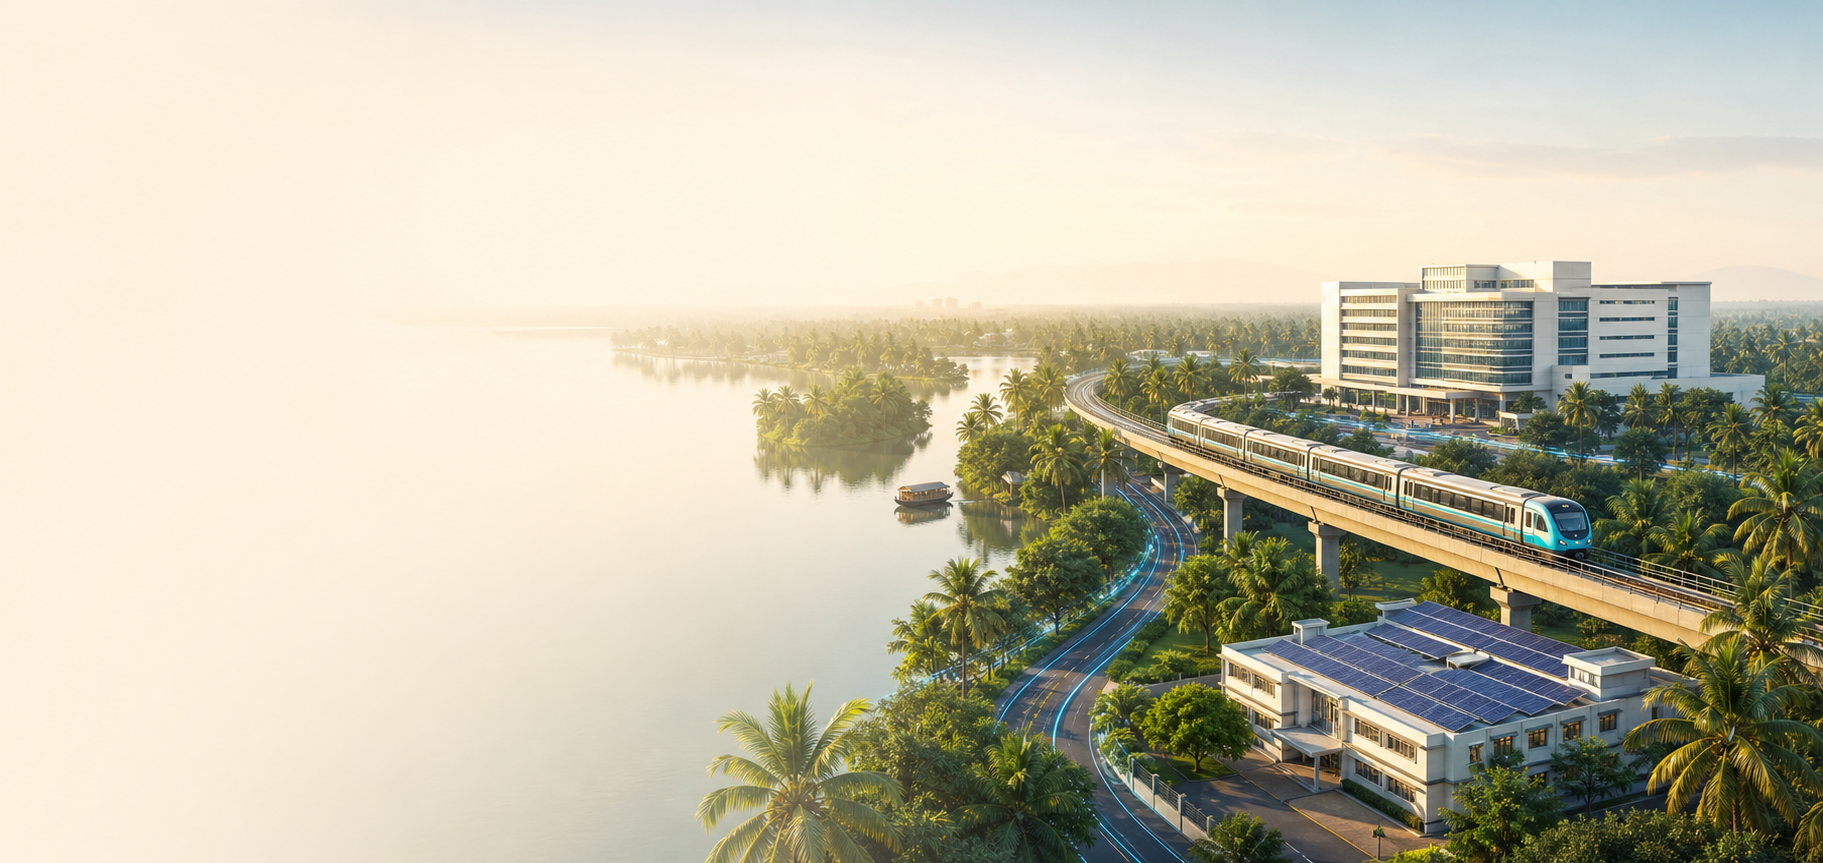
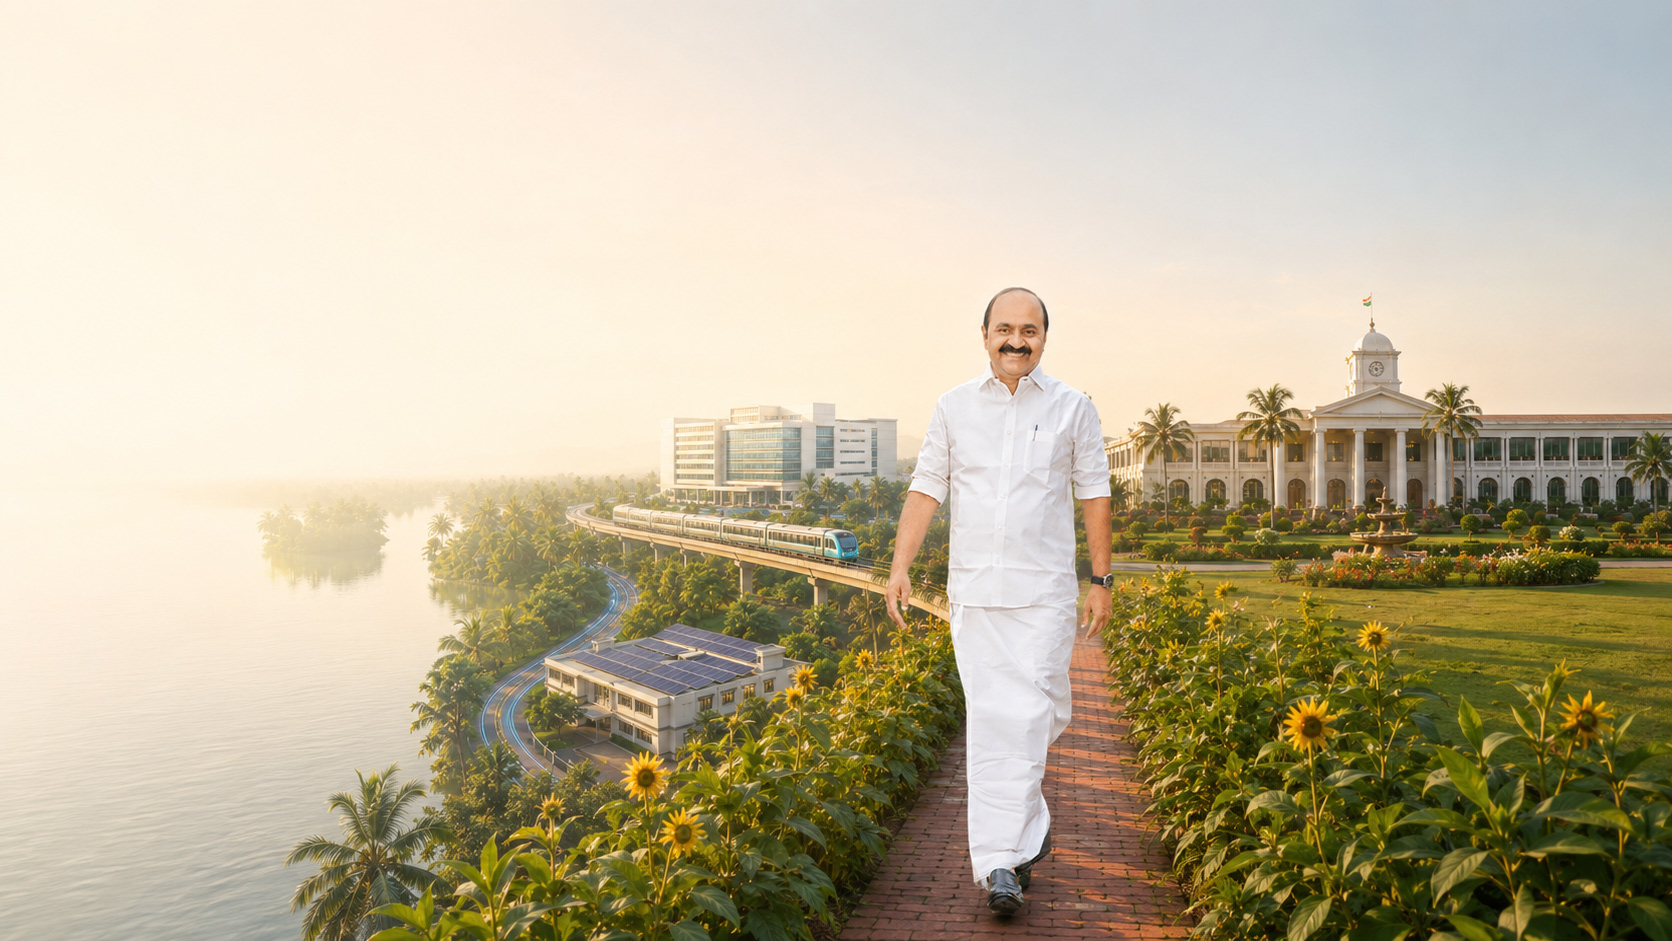
Update public status logic, Malayalam copy, and hero presentation

diff --git a/app/api/public/sectors/route.ts b/app/api/public/sectors/route.ts
@@ -7,8 +7,10 @@ import { db } from "@/lib/db/client";
 // Joins each sector to:
 //   - master_projects (sector_id) â†’ projects count
 //   - indicators via projects â†’ indicators count
-// Status is derived: all indicators verified at 100% â†’ completed;
-// any indicator submitted â†’ in-progress; otherwise not-started.
+// Status is derived in this order:
+//   - all projects completed â†’ completed
+//   - any project in progress (is_completed = 1) â†’ in-progress
+//   - otherwise â†’ not-started
 //
 // `sector_name_mal` is the Malayalam label if the column exists, falling
 // back to the English `sector_name`. `sector_img_path` is the file name
@@ -29,6 +31,18 @@ export async function GET() {
           WHERE mp.sector_id = ms.sector_id
             AND COALESCE(mp.is_archived, false) = false
         ), 0) AS projects,
+        COALESCE((
+          SELECT COUNT(*)::int FROM hdp.master_projects mp
+          WHERE mp.sector_id = ms.sector_id
+            AND COALESCE(mp.is_archived, false) = false
+            AND COALESCE(mp.is_completed, 0) = 2
+        ), 0) AS projects_completed,
+        COALESCE((
+          SELECT COUNT(*)::int FROM hdp.master_projects mp
+          WHERE mp.sector_id = ms.sector_id
+            AND COALESCE(mp.is_archived, false) = false
+            AND COALESCE(mp.is_completed, 0) = 1
+        ), 0) AS projects_in_progress,
         COALESCE((
           SELECT COUNT(*)::int FROM hdp.indicators i
           INNER JOIN hdp.master_projects mp ON i.project_id = mp.project_id
@@ -55,13 +69,16 @@ export async function GET() {
     `);
 
     const sectors = (result.rows as Array<any>).map((r) => {
+      const projects = Number(r.projects) || 0;
+      const projectsCompleted = Number(r.projects_completed) || 0;
+      const projectsInProgress = Number(r.projects_in_progress) || 0;
       const indicators = Number(r.indicators) || 0;
       const verifiedComplete = Number(r.verified_complete) || 0;
       const submitted = Number(r.submitted) || 0;
       let status: "completed" | "in-progress" | "not-started" = "not-started";
-      if (indicators > 0 && verifiedComplete >= indicators) {
+      if (projects > 0 && projectsCompleted >= projects) {
         status = "completed";
-      } else if (submitted > 0 || verifiedComplete > 0) {
+      } else if (projectsInProgress > 0) {
         status = "in-progress";
       }
       return {
@@ -71,7 +88,7 @@ export async function GET() {
         imagePath: r.sector_img_path
           ? `/images/sector_images/${r.sector_img_path}`
           : null,
-        projects: Number(r.projects) || 0,
+        projects,
         indicators,
         status,
       };

diff --git a/app/api/public/departments/route.ts b/app/api/public/departments/route.ts
@@ -28,6 +28,24 @@ export async function GET() {
         ), 0) AS projects,
 
         COALESCE((
+          SELECT COUNT(DISTINCT mp.project_id)::int
+          FROM hdp.master_projects mp
+          INNER JOIN hdp.project_secretary ps ON mp.project_id = ps.project_id
+          WHERE ps.sec_id = ms.sec_id
+            AND COALESCE(mp.is_archived, false) = false
+            AND COALESCE(mp.is_completed, 0) = 2
+        ), 0) AS projects_completed,
+
+        COALESCE((
+          SELECT COUNT(DISTINCT mp.project_id)::int
+          FROM hdp.master_projects mp
+          INNER JOIN hdp.project_secretary ps ON mp.project_id = ps.project_id
+          WHERE ps.sec_id = ms.sec_id
+            AND COALESCE(mp.is_archived, false) = false
+            AND COALESCE(mp.is_completed, 0) = 1
+        ), 0) AS projects_in_progress,
+
+        COALESCE((
           SELECT COUNT(*)::int
           FROM hdp.indicators i
           INNER JOIN hdp.master_projects mp ON i.project_id = mp.project_id
@@ -105,18 +123,21 @@ export async function GET() {
     const departments = (r.rows as Array<any>).map((row) => {
       const physicalPct = Number(row.physical_pct) || 0;
       const financialPct = Number(row.financial_pct) || 0;
+      const projects = Number(row.projects) || 0;
+      const projectsCompleted = Number(row.projects_completed) || 0;
+      const projectsInProgress = Number(row.projects_in_progress) || 0;
       const indicators = Number(row.indicators) || 0;
-      // Simple status heuristic:
-      //   no indicators yet â†’ not-started
-      //   physical 100% AND financial 100% â†’ completed
-      //   otherwise â†’ in-progress
+      // Status derivation based on project state:
+      //   all projects completed â†’ completed
+      //   any project in progress â†’ in-progress
+      //   otherwise â†’ not-started
       let status: "completed" | "in-progress" | "not-started" = "not-started";
-      if (indicators === 0) {
-        status = "not-started";
-      } else if (physicalPct >= 99.9 && financialPct >= 99.9) {
+      if (projects > 0 && projectsCompleted >= projects) {
         status = "completed";
-      } else {
+      } else if (projectsInProgress > 0) {
         status = "in-progress";
+      } else {
+        status = "not-started";
       }
       return {
         secId: Number(row.sec_id),
@@ -128,7 +149,7 @@ export async function GET() {
             row.secretary_name_mal) ||
           row.secretary_name ||
           "",
-        projects: Number(row.projects) || 0,
+        projects,
         indicators,
         costInLakhs: Number(row.total_cost) || 0,
         physicalPct: Math.round(physicalPct),

diff --git a/components/public/DepartmentPage.tsx b/components/public/DepartmentPage.tsx
@@ -53,7 +53,7 @@ const STATUS_META: Record<
     border: 'border-l-hdp-danger',
     bg: 'bg-[#FFEBEE]/30',
     indexBg: 'bg-[#FFEBEE] text-[#C62828]',
-    chipMal: 'ആരംഭിക്കാൻ',
+    chipMal: 'ആരംഭിച്ചിട്ടില്ല',
   },
 };
 
@@ -92,7 +92,7 @@ const FILTER_LABELS_MAL: Record<Filter, string> = {
   all: 'എല്ലാം',
   completed: 'പൂർത്തിയായി',
   'in-progress': 'പുരോഗതിയിൽ',
-  'not-started': 'ആരംഭിക്കാൻ',
+  'not-started': 'ആരംഭിച്ചിട്ടില്ല',
 };
 
 export function DepartmentPage({
@@ -134,8 +134,7 @@ export function DepartmentPage({
               {nameMal}
             </h1>
             <p className="font-malayalam mt-3 max-w-xl text-sm leading-relaxed text-white/80">
-              പദ്ധതികളുടെ ഭൗതികവും സാമ്പത്തികവുമായ പുരോഗതി, ഘടകങ്ങൾ, മാധ്യമങ്ങൾ
-              എന്നിവ
+              പദ്ധതികളുടെ ഭൗതികവും സാമ്പത്തികവുമായ പുരോഗതി, ഘടകങ്ങൾ എന്നിവ
             </p>
           </div>
 
@@ -171,9 +170,6 @@ export function DepartmentPage({
       <section className="border-b bg-white">
         <div className="container mx-auto flex flex-col gap-4 px-4 py-6 md:flex-row md:items-center md:justify-between">
           <div>
-            <p className="font-malayalam text-xs font-semibold uppercase tracking-wide text-hdp-green">
-              പദ്ധതിപട്ടിക
-            </p>
             <h2 className="font-malayalam text-xl font-bold text-foreground">
               വകുപ്പിലെ പദ്ധതികൾ
             </h2>
@@ -354,11 +350,6 @@ function ProjectCard({
           <p className="font-malayalam text-[11px] font-semibold uppercase tracking-wide text-muted-foreground">
             പദ്ധതിപുരോഗതി
           </p>
-          {!project.verified && (
-            <span className="font-malayalam rounded-full bg-white/80 px-2 py-0.5 text-[10px] text-muted-foreground">
-              സർക്കാർ സ്ഥിരീകരിച്ചത് അല്ല
-            </span>
-          )}
           {project.verified && (
             <span className="font-malayalam rounded-full bg-hdp-success/15 px-2 py-0.5 text-[10px] text-hdp-success">
               സ്ഥിരീകരിച്ചത്

diff --git a/app/api/public/sector/[sectorId]/departments/route.ts b/app/api/public/sector/[sectorId]/departments/route.ts
@@ -43,6 +43,26 @@ export async function GET(
         ), 0) AS projects,
 
         COALESCE((
+          SELECT COUNT(DISTINCT mp.project_id)::int
+          FROM hdp.master_projects mp
+          INNER JOIN hdp.project_secretary ps ON mp.project_id = ps.project_id
+          WHERE ps.sec_id = ms.sec_id
+            AND mp.sector_id = ${id}
+            AND COALESCE(mp.is_archived, false) = false
+            AND COALESCE(mp.is_completed, 0) = 2
+        ), 0) AS projects_completed,
+
+        COALESCE((
+          SELECT COUNT(DISTINCT mp.project_id)::int
+          FROM hdp.master_projects mp
+          INNER JOIN hdp.project_secretary ps ON mp.project_id = ps.project_id
+          WHERE ps.sec_id = ms.sec_id
+            AND mp.sector_id = ${id}
+            AND COALESCE(mp.is_archived, false) = false
+            AND COALESCE(mp.is_completed, 0) = 1
+        ), 0) AS projects_in_progress,
+
+        COALESCE((
           SELECT COUNT(*)::int
           FROM hdp.indicators i
           INNER JOIN hdp.master_projects mp ON i.project_id = mp.project_id
@@ -127,14 +147,17 @@ export async function GET(
     const departments = (r.rows as Array<any>).map((row) => {
       const physicalPct = Number(row.physical_pct) || 0;
       const financialPct = Number(row.financial_pct) || 0;
+      const projects = Number(row.projects) || 0;
+      const projectsCompleted = Number(row.projects_completed) || 0;
+      const projectsInProgress = Number(row.projects_in_progress) || 0;
       const indicators = Number(row.indicators) || 0;
       let status: "completed" | "in-progress" | "not-started" = "not-started";
-      if (indicators === 0) {
-        status = "not-started";
-      } else if (physicalPct >= 99.9 && financialPct >= 99.9) {
+      if (projects > 0 && projectsCompleted >= projects) {
         status = "completed";
-      } else {
+      } else if (projectsInProgress > 0) {
         status = "in-progress";
+      } else {
+        status = "not-started";
       }
       return {
         secId: Number(row.sec_id),
@@ -143,7 +166,7 @@ export async function GET(
             row.secretary_name_mal) ||
           row.secretary_name ||
           "",
-        projects: Number(row.projects) || 0,
+        projects,
         indicators,
         costInLakhs: Number(row.total_cost) || 0,
         physicalPct: Math.round(physicalPct),

diff --git a/app/api/public/sector/[sectorId]/route.ts b/app/api/public/sector/[sectorId]/route.ts
@@ -29,6 +29,18 @@ export async function GET(
             AND COALESCE(mp.is_archived, false) = false
         ), 0) AS projects,
         COALESCE((
+          SELECT COUNT(*)::int FROM hdp.master_projects mp
+          WHERE mp.sector_id = ms.sector_id
+            AND COALESCE(mp.is_archived, false) = false
+            AND COALESCE(mp.is_completed, 0) = 2
+        ), 0) AS projects_completed,
+        COALESCE((
+          SELECT COUNT(*)::int FROM hdp.master_projects mp
+          WHERE mp.sector_id = ms.sector_id
+            AND COALESCE(mp.is_archived, false) = false
+            AND COALESCE(mp.is_completed, 0) = 1
+        ), 0) AS projects_in_progress,
+        COALESCE((
           SELECT COUNT(*)::int FROM hdp.indicators i
           INNER JOIN hdp.master_projects mp ON i.project_id = mp.project_id
           WHERE mp.sector_id = ms.sector_id
@@ -59,13 +71,16 @@ export async function GET(
       return NextResponse.json({ error: "Sector not found" }, { status: 404 });
     }
 
+    const projects = Number(row.projects) || 0;
+    const projectsCompleted = Number(row.projects_completed) || 0;
+    const projectsInProgress = Number(row.projects_in_progress) || 0;
     const indicators = Number(row.indicators) || 0;
     const verifiedComplete = Number(row.verified_complete) || 0;
     const submitted = Number(row.submitted) || 0;
     let status: "completed" | "in-progress" | "not-started" = "not-started";
-    if (indicators > 0 && verifiedComplete >= indicators) {
+    if (projects > 0 && projectsCompleted >= projects) {
       status = "completed";
-    } else if (submitted > 0 || verifiedComplete > 0) {
+    } else if (projectsInProgress > 0) {
       status = "in-progress";
     }
 
@@ -79,7 +94,7 @@ export async function GET(
         imagePath: row.sector_img_path
           ? `/images/sector_images/${row.sector_img_path}`
           : null,
-        projects: Number(row.projects) || 0,
+        projects,
         indicators,
         status,
       },

diff --git a/components/public/ProjectDetailPage.tsx b/components/public/ProjectDetailPage.tsx
@@ -112,7 +112,7 @@ const STATUS_META: Record<
   },
   'not-started': {
     chip: 'bg-[#FFEBEE] text-[#C62828]',
-    chipMal: 'ആരംഭിക്കാൻ',
+    chipMal: 'ആരംഭിച്ചിട്ടില്ല',
     ringBorder: 'border-hdp-danger',
   },
 };
@@ -321,7 +321,7 @@ function IndicatorCard({
         {ind.verified ? (
           <span className="inline-flex items-center gap-1 rounded-full bg-[#E8F5E9] px-2.5 py-0.5 text-[10px] font-semibold text-[#1B5E20]">
             <ShieldCheck className="h-3 w-3" />
-            <span className="font-malayalam">സ്ഥിരീകരിച്ചത്</span>
+            <span className="font-malayalam">വെരിഫൈഡ്</span>
           </span>
         ) : (
           <span className="inline-flex items-center gap-1 rounded-full bg-[#FFF8E1] px-2.5 py-0.5 text-[10px] font-semibold text-[#E65100]">

diff --git a/components/public/DepartmentProgressCard.tsx b/components/public/DepartmentProgressCard.tsx
@@ -49,7 +49,7 @@ const STATUS_META: Record<
   'not-started': {
     dot: 'bg-hdp-danger',
     chip: 'bg-[#FFEBEE] text-[#C62828]',
-    chipMal: 'ആരംഭിക്കാൻ',
+    chipMal: 'ആരംഭിച്ചിട്ടില്ല',
     ringColor: '#E53935',
   },
 };
@@ -269,13 +269,6 @@ export function DepartmentProgressCard({
         </div>
       </div>
 
-      {/* ============== INFO FOOTER ============== */}
-      <footer className="flex flex-wrap items-center gap-3 border-t bg-hdp-bg/40 px-5 py-2.5 text-[11px] text-muted-foreground">
-        <CheckCircle2 className="h-3.5 w-3.5 text-hdp-success" />
-        <span className="font-malayalam">
-          വരുമാന പദ്ധതികൾ, എണ്ണം, ചിത്രങ്ങൾ, വീഡിയോകൾ
-        </span>
-      </footer>
     </article>
   );
 }

diff --git a/components/public/HeroSection.tsx b/components/public/HeroSection.tsx
@@ -41,7 +41,7 @@ export function HeroSection(_unusedProps: HeroSectionProps) {
       />
       <div
         aria-hidden
-        className="absolute inset-0 -z-10 bg-gradient-to-r from-white/80 via-white/55 to-white/15"
+        className="absolute inset-0 -z-10 bg-gradient-to-r from-white/58 via-white/24 to-transparent"
       />
 
       <div className="container mx-auto grid gap-10 px-4 py-16 lg:grid-cols-[1.7fr_minmax(0,360px)] lg:py-24">
